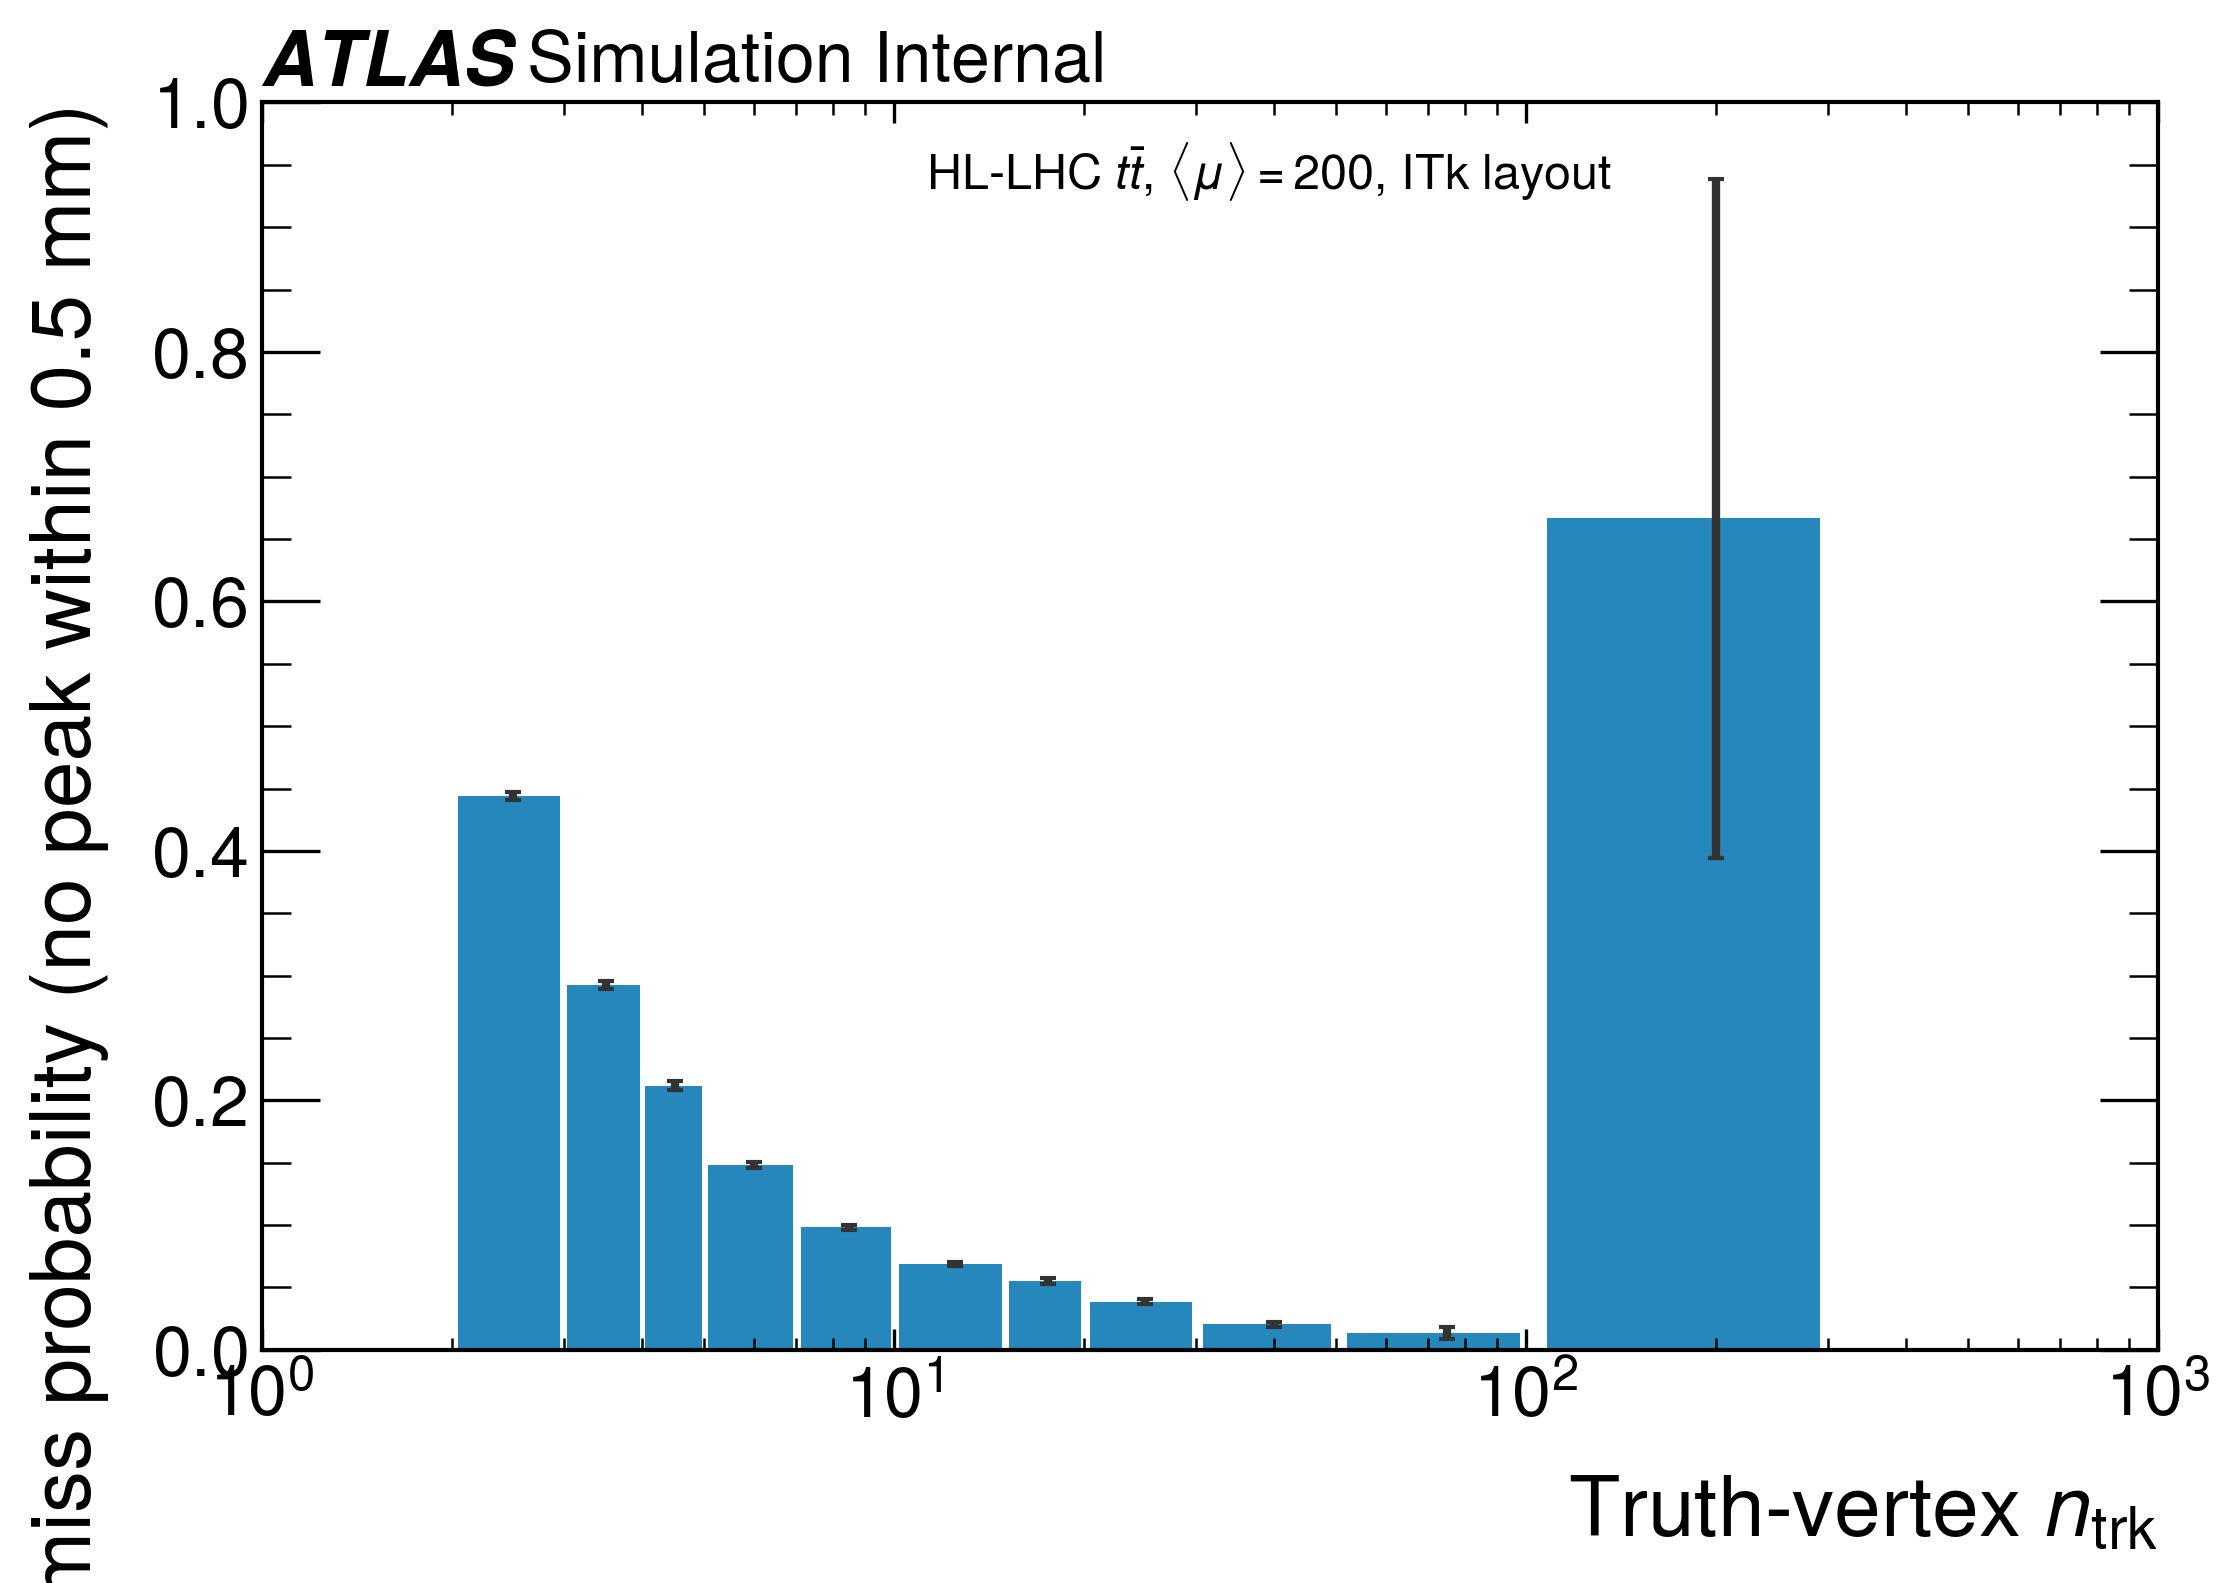
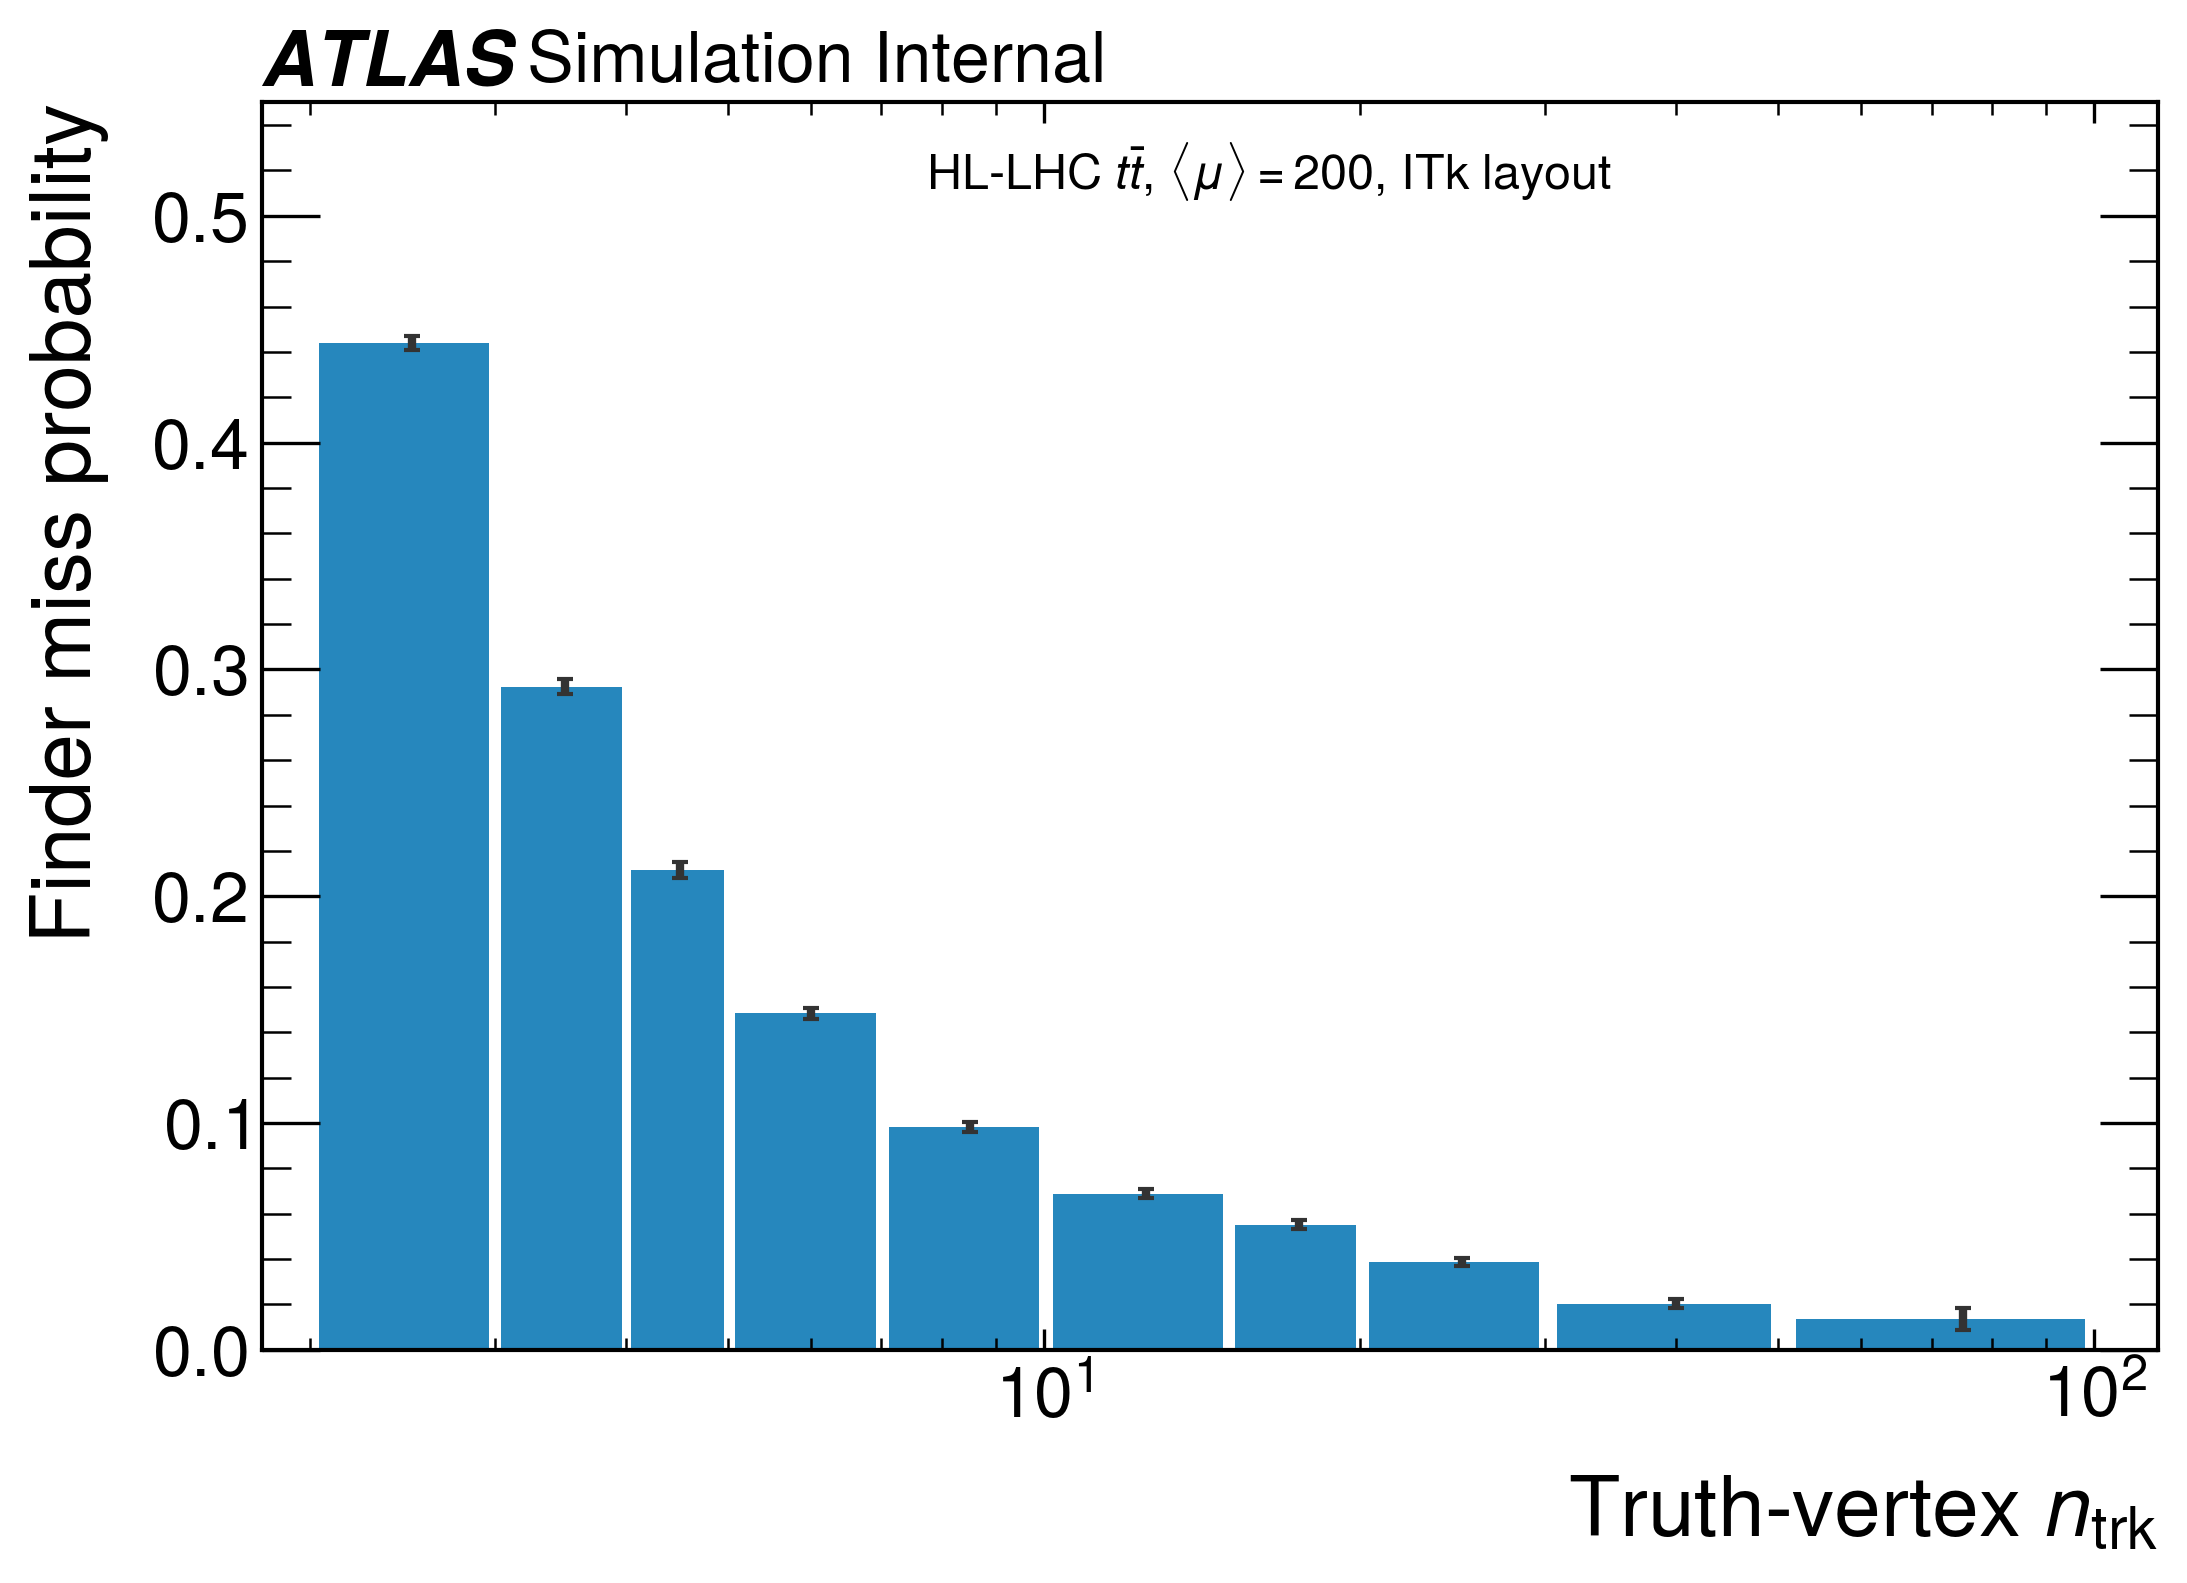
docs: drop the sparse last bin from the finder-miss plot; tidy axes

diff --git a/src/gnn/diagnostics/plot_ttva_pu200_pub.py b/src/gnn/diagnostics/plot_ttva_pu200_pub.py
@@ -109,10 +109,10 @@ def plot_scan(scans: dict[str, dict], gap: dict, out: Path):
 
 
 def plot_miss_ntrk(gap: dict, out: Path):
-    """Finder-miss probability vs truth nTracks."""
-    edges = np.asarray(gap["ntrk_bin_edges"], dtype=float)
-    missed = np.asarray(gap["missed_ntrk_hist"], dtype=float)
-    matched = np.asarray(gap["matched_ntrk_hist"], dtype=float)
+    """Finder-miss probability vs truth nTracks (last, sparse bin omitted)."""
+    edges = np.asarray(gap["ntrk_bin_edges"], dtype=float)[:-1]
+    missed = np.asarray(gap["missed_ntrk_hist"], dtype=float)[:-1]
+    matched = np.asarray(gap["matched_ntrk_hist"], dtype=float)[:-1]
     total = missed + matched
     prob = np.divide(missed, total, out=np.zeros_like(missed), where=total > 0)
 
@@ -127,8 +127,9 @@ def plot_miss_ntrk(gap: dict, out: Path):
     ax.errorbar(centers, prob, yerr=err, fmt="none", ecolor="0.2", capsize=2)
     ax.set_xscale("log")
     ax.set_xlabel("Truth-vertex $n_{\\mathrm{trk}}$")
-    ax.set_ylabel("Finder miss probability (no peak within 0.5 mm)")
-    ax.set_ylim(0, 1.0)
+    ax.set_ylabel("Finder miss probability")
+    ax.set_xlim(1.8, 115)
+    ax.set_ylim(0, 0.55)
     atlas_label(ax, desc=LUMI_DESC, desc_xy=(0.35, 0.97))
     save_figure(fig, out, "pu200_miss_ntrk")
     plt.close(fig)